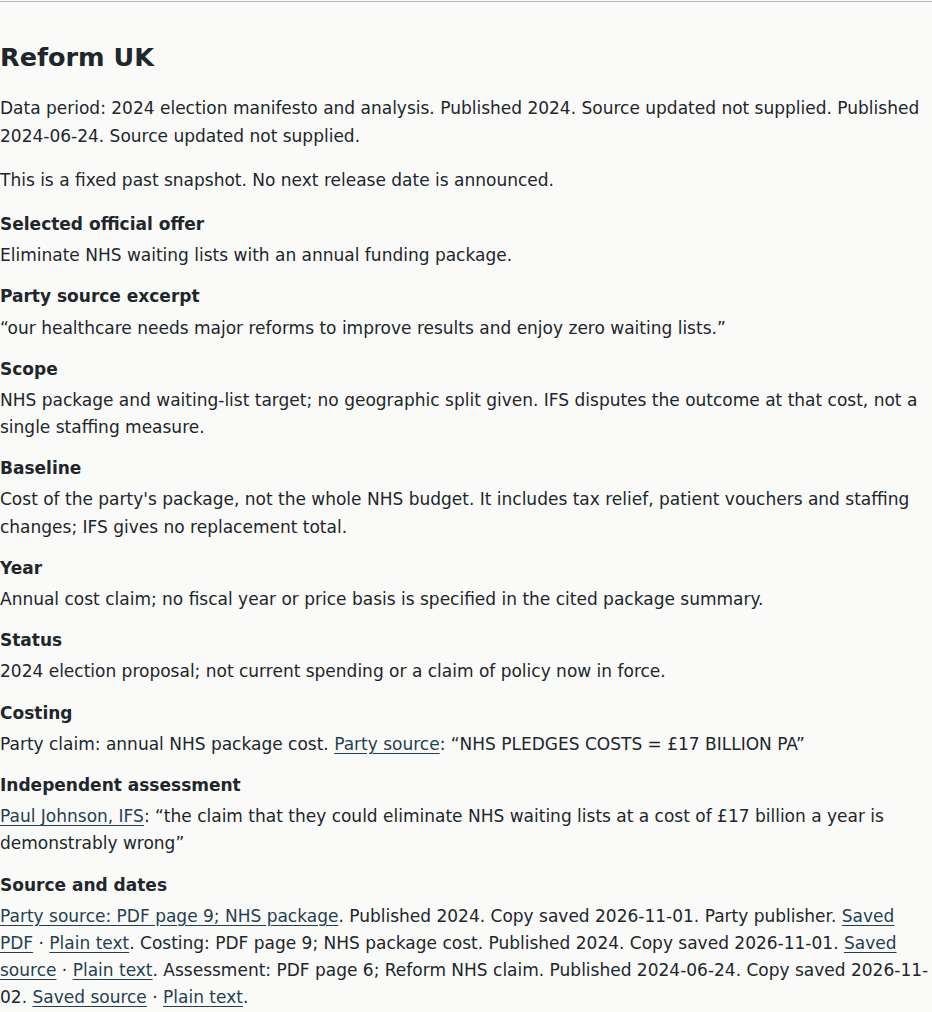
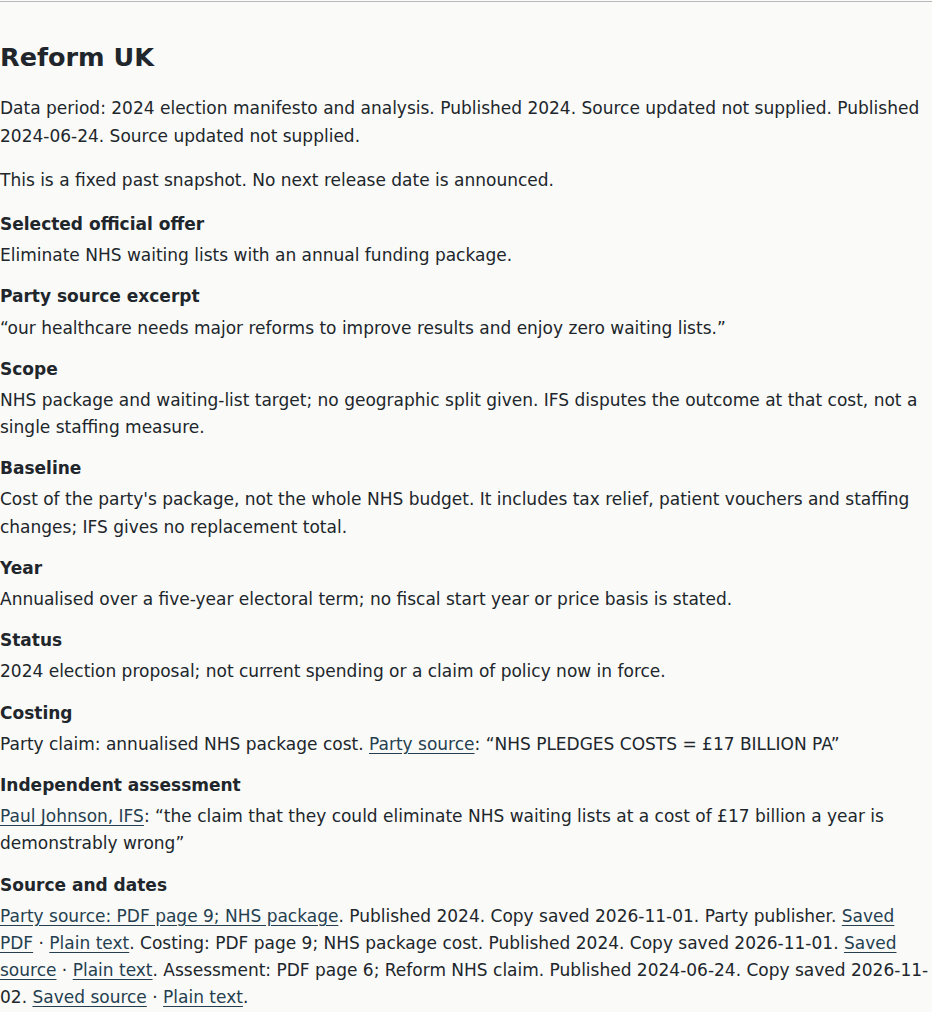
Refresh final annualised-cost comparison and integrated checks

Changed region(s): [[0.1867, 0.7045, 0.9024, 0.7658], [0.0622, 0.582, 0.809, 0.6126]]

diff --git a/docs/evidence/coverage-w6/README.md b/docs/evidence/coverage-w6/README.md
@@ -3,7 +3,7 @@
 ## Actual Before / After
 
[3 lines of base64/hex data omitted]
 - Same real static application, Chromium, light theme, JavaScript disabled, initial party-card state. Mobile **360×800** and desktop **1280×900**.
 - [Revision map](revision-map.json) verifies each report's tested HTML hash against its named immutable git revision. Browser reports were captured before the working tree's implementation commit; their `baseRevision` is not the tested-content identity. `pages[].sha256` is.
 
@@ -32,12 +32,14 @@ There are now **nine selected examples with independent quotations, two cost-onl
 # All nine pages pass provenance/raw values/reconciliation/source/size/banned-word/grade gates.
 # No changed generated output after rebuild. Manual inventory changes only party HTML hash.
 .venv/bin/python -m unittest discover -s tests -p 'test_*.py'
-# 211 integrated tests PASS (206 before integration).
+# 223 integrated tests PASS (206 before integration).
 CHECK_PAGE=parties.html EVIDENCE_LABEL=after EVIDENCE_DIR=docs/evidence/coverage-w6 npm run test:browser
 # Both mobile/desktop tasks PASS: no-JS, layout/overflow/size, zero axe violations and contrast checks.
 node docs/evidence/coverage-w6/capture-cards.mjs
 ```
 
-Party grades: **5.7354** complete text, **6.2130** words-only, **6.2362** prose words-only. Added regression coverage rejects wrong independent PDF page, wrong publisher attribution, incompatible source/locator formats and a forged, hash-consistent transcript that is absent from the actual cited PDF page. Existing HTML/PDF provenance, amounts, equal template and scoped date/revision tests remain in force. No manual keyboard/screen-reader result or other people evidence was created.
+Party grades: **5.7324** complete text, **6.2097** words-only, **6.2326** prose words-only. Added regression coverage rejects wrong independent PDF page, wrong publisher attribution, incompatible source/locator formats and a forged, hash-consistent transcript that is absent from the actual cited PDF page. Existing HTML/PDF provenance, amounts, equal template and scoped date/revision tests remain in force. No manual keyboard/screen-reader result or other people evidence was created.
 
 Concurrent main5928df7 added answer navigation and a real publisher-revision notice. It was integrated; only the generated party hash conflicted in the manual inventory, resolved by rebuilding and regenerating the inventory without claiming performed checks. Fresh actual Before/After captures include the same revision notice on both sides.
+
+Also integrated main23e7f97 (PR61 financial audit), regenerated its full source/figure trace, and added the actual NHS COST PLEDGES table at PDF26, NHS Pledges row, £17 in £billions, annualised over the five-year electoral term. No fiscal year is inferred. Uppercase currency scales remain billions in the audit rather than £17. The refreshed trace has22 financial occurrences,17 without a verified matching table; no Accuracy L2 claim. Full final suite223PASS. Final After captures were refreshed for the annualised-period clarification; party HTML identity remains pinned above.
